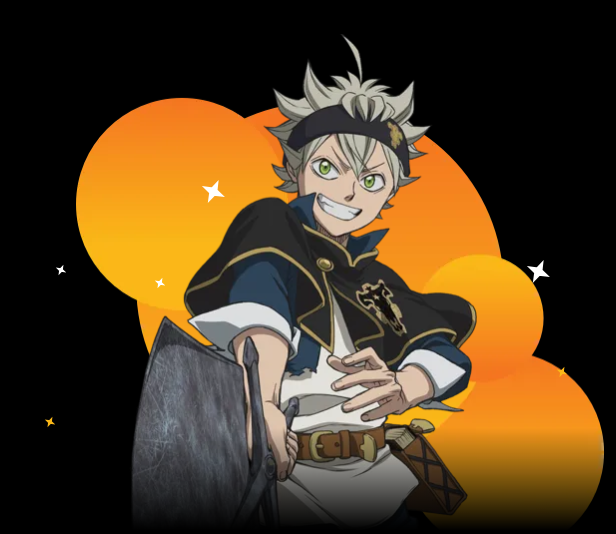
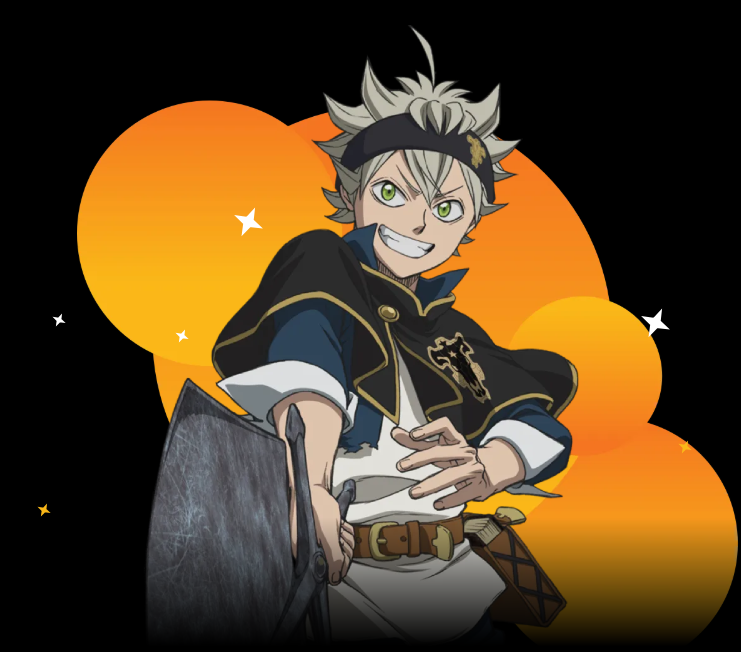
'version12'

Changed region(s): [[0.0617, 0.03, 1.0, 0.9588], [0.6786, 0.9588, 0.7094, 0.9888], [0.0617, 0.779, 0.0925, 0.809]]

diff --git a/main/ui_ux/ui_ux.html b/main/ui_ux/ui_ux.html
@@ -5,11 +5,25 @@
     <meta charset="UTF-8">
     <meta name="viewport" content="width=device-width, initial-scale=1.0">
     <title>Document</title>
-    <link rel="stylesheet" href="./styles/styles.css"></link>
+    <link rel="stylesheet" href="../../styles/styles.css"></link>
 </head>
 <body>
+    <!-- Início do cabeçalho -->
     <header>
-        <img id="logo_home" src="./images/crunchyroll_logo.png">
+
+        <!-- Logo do site -->
+        <a href="../../index.html" id="logo"><img src="../../images/crunchyroll_logo.png"></a>
+
+        <!-- Área de navegação -->
+        <nav>
+            <ul>
+                <li><a href="../js_homes/home_js.html">Java Script</a></li>
+                <li><a href="../../index.html">Home</a></li>
+                <li><a href="../ui_ux/ui_ux.html">UI UX</a></li>
+            </ul>
+        </nav>
+
+    <!-- Fim do cabeçalho -->
     </header>
 
     <main>
@@ -18,9 +32,12 @@
                 <div>
                     <div class="welcome_texts">
                         <div class="texts_area">
-                            <h1 id="welcome_title">Welcome to my portifolio!</h1>
-                            <h3>I'm Rafael Moreira, a System development student based in Sumaré - SP in Brazil, 
-                                and here are some things I've been learning about the Front End Development!
+                            <h1 id="welcome_title">UI UX!</h1>
+                            <h3>UI UX is an area of the Front End Development responsible for creating usefull and modern
+                                interfaces and great or necessary experiences. In this area, we learned thing like Usability,
+                                The 10 Nielsen Heuristcs, the Color Theory and how to create prototypes. An exemple of how I used 
+                                it all, is a Figma developed by me! Click on the button above and see it!
+
                             </h3>
                             
                         </div>
@@ -28,42 +45,57 @@
                     </div>
 
                     <div class="button_area">
-                        <button>GO TO TOPICS</button>
-                        <img src="./images/balls1_test.png">
+                        <button>GO TO FIGMA</button>
+                        <img src="../../images/balls1_test.png">
                     </div>
 
                 </div>
 
-                <img src="./images/mascot.webp">
+                <img src="../../images/mascot.webp">
                 
             </div>
         </section>
 
-        <section class="js-area">
-            <div class="js-container">
+        <section class="usability">
+            <div class="usability_container">
                 <div class="js-area">
-                    <img src="./images/asta_test.png">
-                    <div class="main_examples_container">
-                        <div class="main_examples">
-                            <img src="">
-                            <img src="">
-                            <img src="">
-                            <img src="">
-                            <img src="">
-                            <img src="">
-                            <img src="">
-                            <img src="">
-                            <img src="">
-                            <img src="">
-                            <img src="">
-                            <img src="">
-                            <img src="">
-                            <img src="">
-                            <img src="">
-                            <img src="">
-                            <img src="">
-                            <img src="">
+                    <div class="usability_area">
+                        <img src="../../images/asta_test.png" id="asta">    
+                        <div class="usability_text">
+                            <h2>5 concepts of Usability!</h2>
+                            <p>Usability in UI/UX refers to how easily users can interact with a product or interface. It focuses on creating intuitive, efficient, and enjoyable experiences by ensuring the design is user-friendly, accessible, and meets the user's needs. 
+                                Good usability leads to higher satisfaction, reduced frustration, and increased product success.</p>
                         </div>
+                    </div>
+                    <div class="usability_content_container">
+                        <div class="content_line"></div>
+                        <div class="usability_cards-conainer">
+                            <div class="usability_card">
+                                <img src="">
+                                <h3>1 - Learnability</h3>
+                            </div>
+
+                            <div class="usability_card">
+                                <img src="">
+                                <h3>2 - Efficiency</h3>
+                            </div>
+
+                            <div class="usability_card">
+                                <img src="">
+                                <h3>3 - Memorability</h3>
+                            </div>
+
+                            <div class="usability_card">
+                                <img src="">
+                                <h3>4 - Error Prevetion</h3>
+                            </div>
+
+                            <div class="usability_card">
+                                <img src="">
+                                <h3>5 - Satisfaction</h3>
+                            </div>
+                        </div>
+                        
                     </div>
                 </div>
             </div>
@@ -74,6 +106,32 @@
         </section>
     </main>
 
-    <script src="./scripts/aula.js"></script>
+    <!-- Início do rodapé -->
+    <footer>
+
+        <!-- Container para auxiliar no alinhamento da borda e demais elementos -->
+        <div class="border_container">
+
+            <!-- Div utilizada para criar uma pequena borda com tamanho específico -->
+            <div class="border_area"></div>
+
+            <!-- Container para centralizar os elementos de texto como o Fernanda Pictures -->
+            <div class="footer_container">
+
+                <!-- Área dos elementos de texto do rodapé -->
+                <div class="brands_container">
+                    <p id="fernanda_pictures">FERNANDA PICTURES</p>
+                    <p>|</p>
+                    <p>© Crunchyroll, LLC</p>
+                </div>
+        
+                <h2 id="pwfe">PWFE</h2>
+        
+            </div>
+        </div>
+
+    <!-- Fim do footer -->
+    </footer>
+
 </body>
 </html>

diff --git a/styles/styles.css b/styles/styles.css
@@ -522,3 +522,49 @@ footer{
     margin: 0 auto;
     margin-top: 4rem;
 }
+
+#asta{
+    max-width: 100%;
+    height: 26rem;
+}
+
+.usability_container{
+    width: 100vw;
+}
+
+.usability_area{
+    display: flex;
+    align-items: center;
+    justify-content: space-between;
+    width: 70vw;
+}
+
+.usability_text{
+    width: 26.25rem;
+}
+
+.usability_text h2{
+    margin-bottom: 2rem;
+    font-size: 34px;
+}
+
+.usability_text p{
+    color: #dadada;
+    font-size: 18px;
+}
+
+.content_line{
+    height: 0.3rem;
+    width: 70vw;
+    background: linear-gradient(to right, #ff640a, #ff640a, yellow);
+    margin-top: 2rem;
+}
+
+.usability_cards-conainer{
+    display: flex;
+    align-items: center;
+    justify-content: center;
+    gap: 1rem;
+    max-width: 70vw;
+}
+  

diff --git a/scripts/dom_function/exercise11.js b/scripts/dom_function/exercise11.js
@@ -18,6 +18,6 @@ button_state.addEventListener("click", () => {
         result = 908.85;
     }
     
-    result_area.textContent = `INSS tax value: ${result}`;
+    result_area.textContent = `INSS tax value: ${result.toFixed(2)}`;
     
 });
